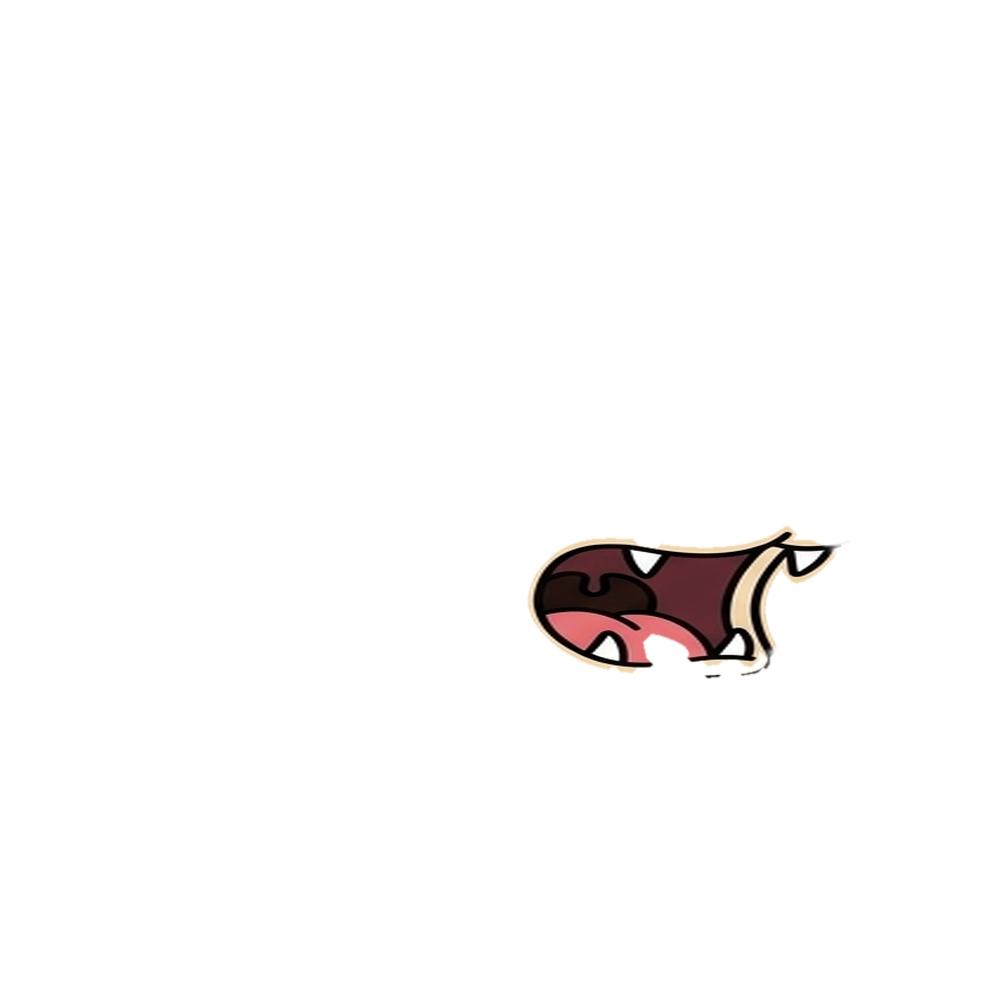
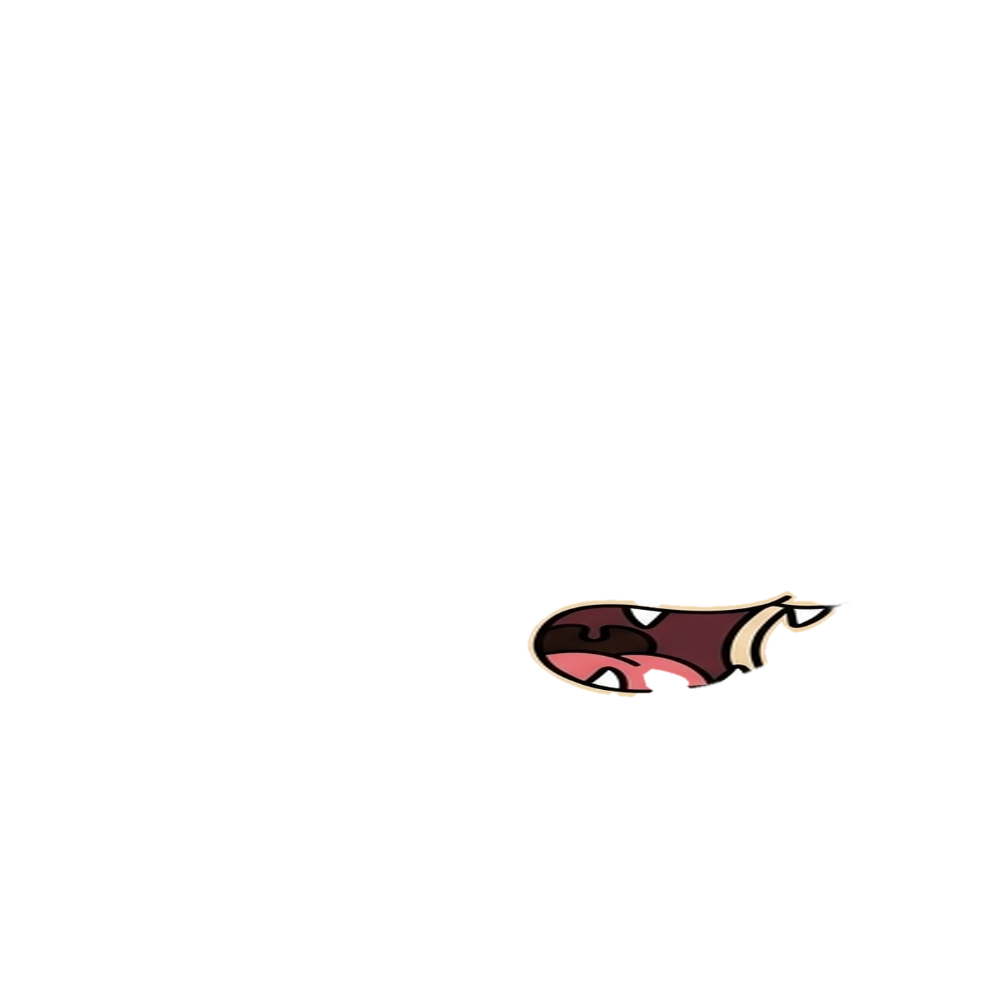
Steadier expressions, Grumble's nose, wolf's mouth, camera toggle
- Every expression signal is measured against the person's own resting level, learned continuously
  (talking or looking down at the phone no longer shifts it)
- Mouth uses hysteresis between closed / slightly open / wide open so it doesn't flicker
- Half-closed lids, frowns and raised brows must be held briefly before showing; blinks stay instant
- Grumble's drawn eyes are lined up on his nose, so the nose no longer doubles
- Wolf's mouth opening sits on his mouth line inside his muzzle
- Header camera button is now a Camera on/off switch that also turns the camera off

Claude-Session: https://claude.ai/code/session_01AAjfD4JXrwKrGtAMJHTTVa

Changed region(s): [[0.527, 0.527, 0.837, 0.713]]

diff --git a/index.html b/index.html
@@ -40,6 +40,13 @@ select{width:100%;border:2.5px solid var(--line);border-radius:12px;padding:10px
 .status.ok{color:var(--ok)}
 .hint{font-size:12px;color:var(--muted);margin:6px 0 0}
 #dl{display:none}
+.toggle{display:flex;align-items:center;gap:10px;font-weight:800;cursor:pointer;user-select:none}
+.toggle input{position:absolute;opacity:0;width:0;height:0}
+.toggle i{position:relative;width:56px;height:32px;border:2.5px solid var(--line);border-radius:999px;background:#e8e3dc;transition:background .15s}
+.toggle i::after{content:"";position:absolute;top:2px;left:2px;width:23px;height:23px;border-radius:50%;background:#fff;border:2.5px solid var(--line);box-sizing:border-box;transition:transform .15s}
+.toggle input:checked + i{background:var(--ok)}
+.toggle input:checked + i::after{transform:translateX(24px)}
+.toggle.busy{opacity:.6}
 body.streaming header, body.streaming .panel, body.streaming .badge{display:none!important}
 body.streaming main{display:block;padding:0;max-width:none}
 body.streaming .stage-wrap{border:0;border-radius:0;height:100vh;background:#000}
@@ -52,7 +59,7 @@ body.streaming #exitStream{display:block}
 <body>
 <header>
   <h1>Nibble<span>ME</span></h1>
-  <button class="btn primary small" id="camBtn">Start camera</button>
+  <label class="toggle" id="camToggle"><span>Camera</span><input type="checkbox" id="camSwitch"><i></i></label>
 </header>
 
 <main>
@@ -184,31 +191,45 @@ loadNibble(4075);
 // ---------------------------------------------------------------------------
 // Camera + face tracking (MediaPipe Face Landmarker, on-device)
 // ---------------------------------------------------------------------------
-$('camBtn').onclick = async () => {
-  if (S.tracking) return;
+async function cameraOn() {
+  $('camToggle').classList.add('busy');
   try {
-    $('camBtn').textContent = 'Starting…';
     const stream = await navigator.mediaDevices.getUserMedia({ video:{ facingMode:'user', width:{ideal:640}, height:{ideal:480} }, audio:false });
     video.srcObject = stream; await video.play();
     if (!S.landmarker) {
-      $('camBtn').textContent = 'Loading…';
+      setStatus('camStatus', 'Loading face tracker…');
       const vision = await import(`https://cdn.jsdelivr.net/npm/@mediapipe/tasks-vision@${MP_VERSION}/vision_bundle.mjs`);
       const files = await vision.FilesetResolver.forVisionTasks(`https://cdn.jsdelivr.net/npm/@mediapipe/tasks-vision@${MP_VERSION}/wasm`);
       const opts = { baseOptions:{ modelAssetPath:MP_MODEL, delegate: IN_WALLET ? 'CPU' : 'GPU' }, runningMode:'VIDEO', numFaces:1, outputFaceBlendshapes:true };
       try { S.landmarker = await vision.FaceLandmarker.createFromOptions(files, opts); }
       catch (e) { opts.baseOptions.delegate = 'CPU'; S.landmarker = await vision.FaceLandmarker.createFromOptions(files, opts); }
     }
-    S.tracking = true; S.calib = { n:0, open:0, wide:0, pitch:0 };
-    $('camBtn').textContent = 'Camera on'; $('camBtn').classList.add('on');
-    setStatus('camStatus', 'Hold a relaxed face for a second while it calibrates.');
-    setTimeout(() => setStatus('camStatus', ''), 2500);
+    resetBaselines(); S.tracking = true;
+    setStatus('camStatus', '');
   } catch (e) {
-    $('camBtn').textContent = 'Start camera';
+    $('camSwitch').checked = false;
     setStatus('camStatus', 'Camera blocked or unavailable. Allow camera access and try again.', 'err');
   }
-};
+  $('camToggle').classList.remove('busy');
+}
+function cameraOff() {
+  S.tracking = false; S.face.seen = false;
+  try { video.srcObject?.getTracks().forEach(t => t.stop()); } catch (e) {}
+  video.srcObject = null;
+}
+$('camSwitch').onchange = e => e.target.checked ? cameraOn() : cameraOff();
 
 const dist = (a, b) => Math.hypot(a.x - b.x, a.y - b.y);
+// Every signal is judged against this person's own resting level, learned continuously from the last few seconds
+// (a low percentile, so talking or blinking never raises the baseline).
+const HIST = 150;
+const H = {};
+function resetBaselines() { for (const k of Object.keys(H)) delete H[k]; }
+function base(name, v, pct=0.2) {
+  const a = H[name] || (H[name] = []); a.push(v); if (a.length > HIST) a.shift();
+  if (a.length < 12) return v;
+  const s = [...a].sort((x, y) => x - y); return s[Math.floor((s.length - 1) * pct)];
+}
 function track(now) {
   if (!S.tracking || !S.landmarker || video.readyState < 2 || video.currentTime === S.lastVideoTime) return;
   S.lastVideoTime = video.currentTime;
@@ -217,58 +238,67 @@ function track(now) {
   f.seen = true;
   const L = r.faceLandmarks[0];
   const bs = {}; (r.faceBlendshapes?.[0]?.categories || []).forEach(c => bs[c.categoryName] = c.score);
-  // head pose (mirrored)
   const roll = -Math.atan2(L[263].y - L[33].y, L[263].x - L[33].x);
   const yaw = -(((L[1].x - L[234].x) / ((L[454].x - L[234].x) || 1e-6)) - 0.5) * 2;
   const eyeY = (L[33].y + L[263].y) / 2, mouthY = (L[13].y + L[14].y) / 2;
   const pr = (L[1].y - eyeY) / ((mouthY - eyeY) || 1e-6);
-  // lip shape straight from the landmarks: far more sensitive than the blendshapes for small speech movements
   const faceH = dist(L[10], L[152]) || 1e-6;
-  const open = dist(L[13], L[14]) / faceH;              // inner lip gap
-  const wide = dist(L[78], L[308]) / faceH;             // mouth corner to corner
-  // first ~40 frames: learn this person's relaxed face so small movements count
-  const c = S.calib;
-  if (c.n < 40) { c.open += open; c.wide += wide; c.pitch += pr; c.n++; if (c.n === 40) { c.open /= 40; c.wide /= 40; c.pitch /= 40; } }
-  const ready = c.n >= 40;
-  const o0 = ready ? c.open : 0.004, w0 = ready ? c.wide : wide;
-  const openN = clamp((open - o0) / 0.075, 0, 1);         // 0 closed … 1 fully open
-  const wideN = clamp((wide - w0) / 0.06, -1, 1);          // + stretched, − narrowed
-  const k = 0.65;                                          // fast follow, light smoothing
-  f.open = lerp(f.open, openN, k);
-  f.wide = lerp(f.wide, wideN, k);
-  f.round = lerp(f.round, Math.max(bs.mouthFunnel || 0, bs.mouthPucker || 0), k);
-  f.smile = lerp(f.smile, ((bs.mouthSmileLeft || 0) + (bs.mouthSmileRight || 0)) / 2, k);
-  f.press = lerp(f.press, ((bs.mouthPressLeft || 0) + (bs.mouthPressRight || 0)) / 2 + (bs.mouthRollLower || 0) * .6, k);
-  f.blink = lerp(f.blink, ((bs.eyeBlinkLeft || 0) + (bs.eyeBlinkRight || 0)) / 2, .75);
-  f.brow = lerp(f.brow, ((bs.browDownLeft || 0) + (bs.browDownRight || 0)) / 2, .5);
-  f.browUp = lerp(f.browUp, bs.browInnerUp || 0, .5);
+  const open = dist(L[13], L[14]) / faceH;                 // inner lip gap
+  const wide = dist(L[78], L[308]) / faceH;                // corner to corner
+  const blink = ((bs.eyeBlinkLeft || 0) + (bs.eyeBlinkRight || 0)) / 2;
+  const brow = ((bs.browDownLeft || 0) + (bs.browDownRight || 0)) / 2;
+  const browUp = bs.browInnerUp || 0;
+  const round = Math.max(bs.mouthFunnel || 0, bs.mouthPucker || 0);
+  const smile = ((bs.mouthSmileLeft || 0) + (bs.mouthSmileRight || 0)) / 2;
+  const press = ((bs.mouthPressLeft || 0) + (bs.mouthPressRight || 0)) / 2 + (bs.mouthRollLower || 0) * .6;
+  const rel = (v, b, span) => clamp((v - b) / span, 0, 1);
+  const k = 0.6;
+  f.open = lerp(f.open, rel(open, base('open', open, 0.1), 0.06), k);            // ~6% of face height = fully open
+  f.wide = lerp(f.wide, clamp((wide - base('wide', wide, 0.5)) / 0.05, -1, 1), k);
+  f.round = lerp(f.round, rel(round, base('round', round), 0.5), k);
+  f.smile = lerp(f.smile, rel(smile, base('smile', smile), 0.5), k);
+  f.press = lerp(f.press, rel(press, base('press', press), 0.45), k);
+  const bb = base('blink', blink, 0.3);                                           // resting lids (e.g. looking down at the phone)
+  f.blink = lerp(f.blink, rel(blink, bb, Math.max(0.25, 0.92 - bb)), .8);
+  f.brow = lerp(f.brow, rel(brow, base('brow', brow, 0.3), 0.45), .5);
+  f.browUp = lerp(f.browUp, rel(browUp, base('browUp', browUp, 0.3), 0.45), .5);
   f.roll = lerp(f.roll, roll, .5); f.yaw = lerp(f.yaw, clamp(yaw, -1, 1), .5);
-  f.pitch = lerp(f.pitch, ready ? clamp((pr - c.pitch) * 3, -1, 1) : 0, .4);
+  f.pitch = lerp(f.pitch, clamp((pr - base('pitch', pr, 0.5)) * 3, -1, 1), .4);
 }
 
-// Which drawn mouth / eyes match the face right now.
+// Which drawn mouth / eyes match the face right now. Each state has to be clearly entered and clearly left
+// (hysteresis), so the face doesn't flicker on the border between two shapes.
+let openLvl = 0;   // 0 closed, 1 slightly open, 2 wide open
 function pickMouth(f) {
-  if (f.round > 0.42 && f.open < 0.35) return 6;                 // OO / W
-  if (f.open > 0.55) return (f.round > 0.3 || f.wide < -0.25) ? 5 : 3;   // O or AH
-  if (f.open > 0.16) {
-    if (f.round > 0.3 || f.wide < -0.3) return 5;                // O
-    if (f.wide > 0.3 || f.smile > 0.45) return 4;                // EE
-    return 2;                                                    // most speech
-  }
-  if (f.open > 0.07) return (f.wide > 0.35 || f.smile > 0.5) ? 4 : 2;
-  if (f.press > 0.3) return 1;                                   // M B P
-  if (f.smile > 0.55) return 4;
+  if (openLvl === 0 && f.open > 0.20) openLvl = 1;
+  else if (openLvl === 1 && f.open > 0.62) openLvl = 2;
+  else if (openLvl === 2 && f.open < 0.48) openLvl = 1;
+  else if (openLvl === 1 && f.open < 0.11) openLvl = 0;
+  const round = f.round > 0.45 || f.wide < -0.45, wideM = f.wide > 0.45 || f.smile > 0.55;
+  if (openLvl === 2) return round ? 5 : 3;                       // O or AH
+  if (openLvl === 1) return round ? 5 : wideM ? 4 : 2;           // O, EE or most speech
+  if (round && f.round > 0.6) return 6;                          // OO / W
+  if (f.press > 0.55) return 1;                                  // M B P
+  if (f.smile > 0.7) return 4;
   return 0;
 }
-function pickEyes(f) {
-  if (f.blink > 0.62) return 4;
-  if (f.blink > 0.36) return 3;
-  if (f.brow > 0.42) return 1;
-  if (f.browUp > 0.5) return 2;
+const eyeHold = { want:0, since:0 };
+function pickEyes(f, now) {
+  let want = 0;
+  if (f.blink > 0.7) want = 4;
+  else if (f.blink > 0.45) want = 3;
+  else if (f.brow > 0.5) want = 1;
+  else if (f.browUp > 0.55) want = 2;
+  if (want !== eyeHold.want) { eyeHold.want = want; eyeHold.since = now; }
+  const held = now - eyeHold.since;
+  // blinks land right away; a squint, frown or raised brows has to be held a moment before the Nibble copies it
+  if (want === 4) return 4;
+  if (want === 3) return held > 260 ? 3 : (S.eye.cur === 4 ? 3 : 0);
+  if (want === 1 || want === 2) return held > 220 ? want : S.eye.cur === want ? want : 0;
   return 0;
 }
-// Switch with a short cross-fade so changes blend instead of popping. Blinks always pass through half-closed.
-const FADE = { mouth:70, eye:55 };
+// Switch with a short cross-fade so changes blend instead of popping.
+const FADE = { mouth:60, eye:50 };
 function step(slot, want, now, minHold) {
   if (want !== slot.cur && now - slot.t > minHold) { slot.prev = slot.cur; slot.cur = want; slot.t = now; }
 }
@@ -326,11 +356,12 @@ function drawNibble(t) {
   const yaw = live ? f.yaw : 0, pitch = live ? f.pitch : 0;
   const breathe = Math.sin(t/650) * 0.006;
   if (live) {
-    step(S.mouth, pickMouth(f), t, 40);
-    const e = pickEyes(f);
+    step(S.mouth, pickMouth(f), t, 55);
+    const e = pickEyes(f, t);
     // a blink never jumps straight from open to shut: it passes through half-closed
     if (e === 4 && S.eye.cur !== 4 && S.eye.cur !== 3) step(S.eye, 3, t, 0);
-    else step(S.eye, e, t, e === 4 || S.eye.cur === 4 ? 30 : 90);
+    else if (e === 0 && S.eye.cur === 4) step(S.eye, 3, t, 40);
+    else step(S.eye, e, t, e === 4 || S.eye.cur === 3 ? 35 : 90);
   } else {
     step(S.mouth, 0, t, 0);
     // idle blink every few seconds
